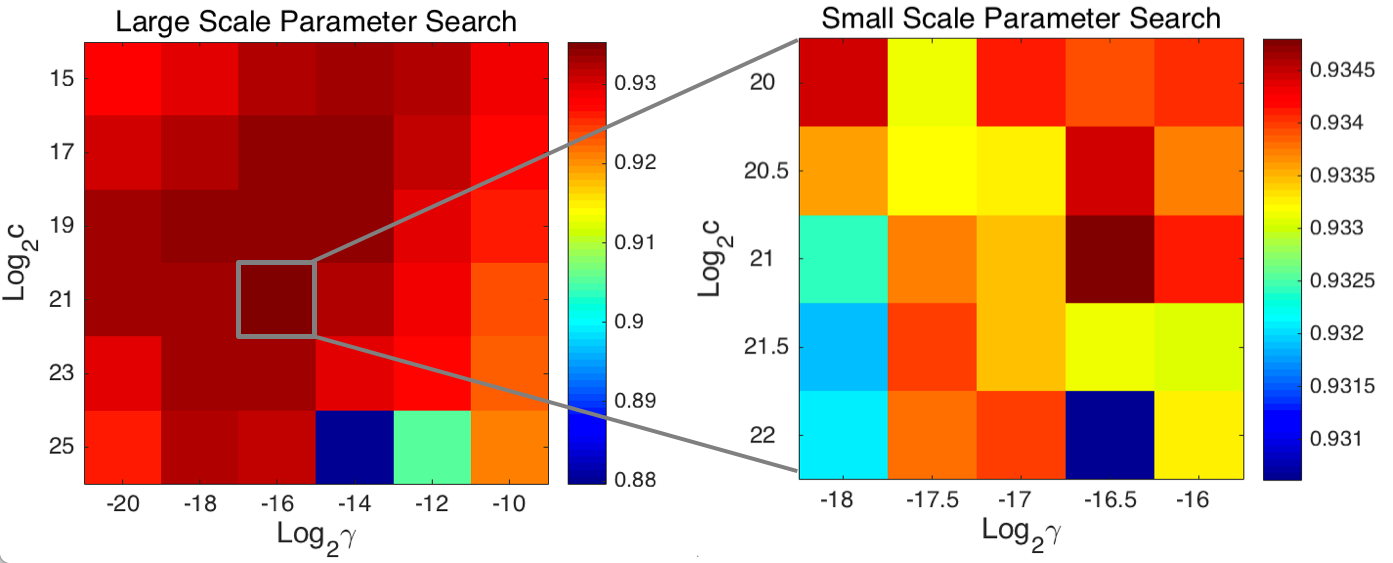
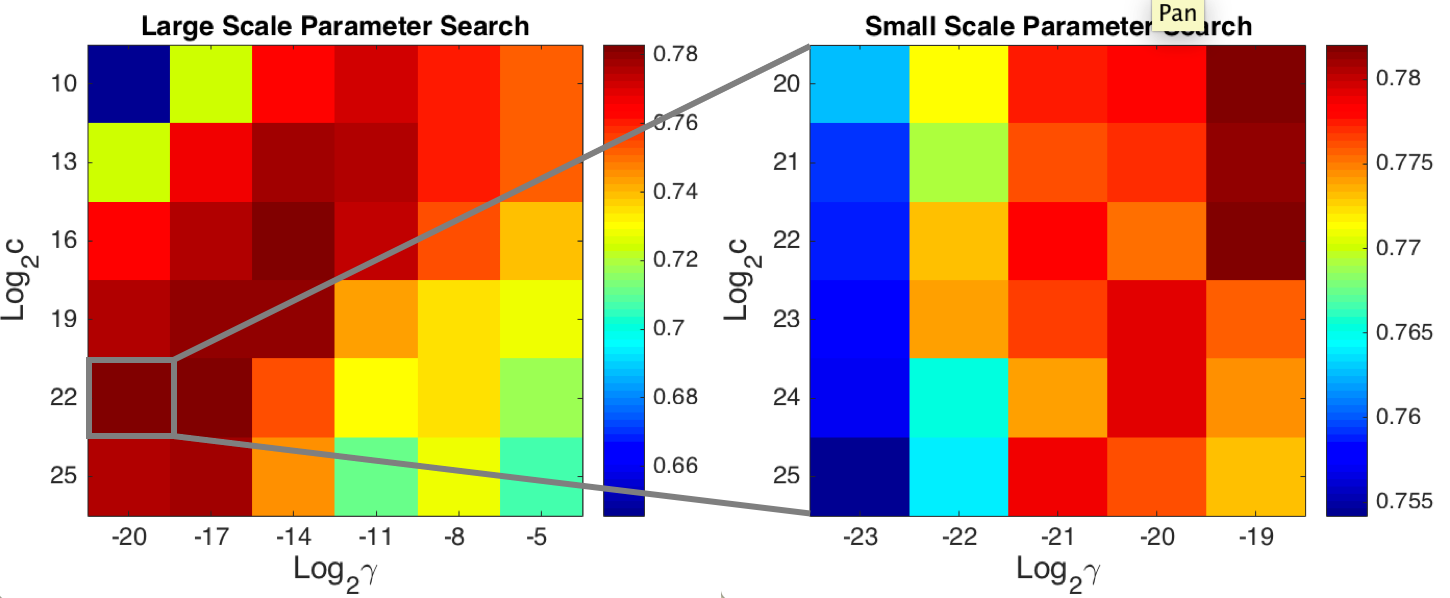
done with writeup v1

diff --git a/doc/btc-learning.tex b/doc/btc-learning.tex
@@ -1,6 +1,8 @@
-\documentclass[12pt]{article}
+\documentclass[11pt]{article}
 \usepackage{fullpage,graphicx,psfrag,amsmath,amsfonts,verbatim}
 \usepackage[small,bf]{caption}
+\usepackage[compact]{titlesec}
+\setlength{\belowcaptionskip}{-10pt}
 
 \input defs.tex
 
@@ -13,11 +15,11 @@
 \maketitle
 
 \section{Background \& Motivation}
-The Bitcoin crypto currency~\cite{Na08}, born in 2009, still maintains its position as the most widely used and highly valued digital currency in existence. Every day sees thousands of transactions added to the blockchain. The blockchain is a global, agreed-upon ledger of every transaction that has ever occured and is continually extended as a single linked list. Each transaction in the blockchain, say Alice paying Bob 10 BTC, has one or more transaction outputs (TXO) which serve as sums of spendable BTC. These unspent sums are called \emph{Unspent Transaction Outputs} (UTXO). They remain UTXOs until the owner (Bob in our example) redeems them to pay someone else (at which time they are referred to as spent TXOs).
+The Bitcoin crypto currency~\cite{Na:08,NBF:15} is the most widely used and highly valued digital currency in existence. Every day sees thousands of transactions added to the blockchain. The blockchain is a global, agreed-upon ledger of every transaction that has ever occured and is continually extended as a single linked list. Each transaction in the blockchain, say Alice paying Bob 10 BTC, has one or more transaction outputs (TXO) which serve as sums of spendable BTC. These unspent sums are called \emph{Unspent Transaction Outputs} (UTXO). They remain UTXOs until the owner (Bob in our example) redeems them to pay someone else (at which time they are referred to as spent TXOs).
 
 \begin{figure}
 \begin{center}
-\includegraphics[width=0.7\textwidth]{figures/utxo}
+\includegraphics[width=0.5\textwidth]{figures/utxo}
 \end{center}
 \caption{Illustrated Explanation of a UTXO. An arbitrary amount of time may pass before Bob spends his UTXO.}
 \label{utxo}
@@ -28,26 +30,29 @@ This project seeks to predict how long a TXO will remain unspent. More formally,
 
 
 \section{Dataset \& Features}
-One of the (many) blockchain explorers, Blockchain.info, has a public API exposing data about individual transactions as well as general Bitcoin market statistics. A python script queried Blockchain.info at a polite rate to gather 13146 training samples and then exported the data to a Matlab readable format. A Matlab script then curated the data into a matrix with the features listed in figure~\ref{features}.
+One of the (many) blockchain explorers, Blockchain.info, has a public API exposing data about individual transactions as well as general Bitcoin market statistics. A python script queried Blockchain.info at a polite rate to gather 13146 training samples and then exported the data to a Matlab readable format. A Matlab script then curated the data into a matrix with the features listed in figure~\ref{features}. The feature set consists of (1) information pertaining to the individual beginning transactions, and (2) information about the bitcoin market statistics on the day of creation.
+
+
 
 \begin{figure}
 \begin{center}
-\includegraphics[width=0.9\textwidth]{figures/hist.png}
-\end{center}
-\caption{The histogram of collected UTXO lifespans with two regions magnified.}
-\label{hist}
-\end{figure}
-
-The feature set consists of (1) information pertaining to the individual beginning transactions, and (2) information about the bitcoin market statistics on the day of creation.
-
-We dummy coded the weekday with the reference day being Sunday. This created 6 new binary features, where each feature dictates whether the transaction occurred on a particular day. Sunday, the reference day, is represented by these 6 features being 0. The UNIX time of beginning transaction corresponded to the number of hours that occurred since the Epoch time, Thursday, 1 January, 1970. The 11th feature, transaction volume on creation date, corresponds to to the total number of unique Bitcoin transactions that occurred on the day of creation. The final three features are the three 2nd order polynomial parameters that fit the last week's USD to BTC conversion rate.
-
-\begin{figure}
-\begin{center}
-\includegraphics[width=0.9\textwidth]{figures/features}
+\includegraphics[width=0.7\textwidth]{figures/features}
 \end{center}
 \caption{The features used as inputs to the classifier .}
 \label{features}
+\end{figure}
+
+
+
+We dummy coded the weekday with the reference day being Sunday. This created 6 new binary features, where each feature dictates whether the transaction occurred on a particular day. Sunday, the reference day, is represented by these 6 features being 0. The UNIX time of beginning transaction corresponded to the number of hours that occurred since the Epoch time, Thursday, 1 January, 1970. The 11th feature, transaction volume on creation date, corresponds to to the total number of unique Bitcoin transactions that occurred on the day of creation. The final three features are the three 2nd order polynomial parameters that fit the last week's USD to BTC conversion rate.
+
+
+\begin{figure}
+\begin{center}
+\includegraphics[width=0.6\textwidth]{figures/hist.png}
+\end{center}
+\caption{The histogram of collected UTXO lifespans with two regions magnified.}
+\label{hist}
 \end{figure}
 
 
@@ -58,50 +63,73 @@ Two methods of doing this are either (1) entirely empirically or (2) based on a 
 
 \begin{figure}
 \begin{center}
-\includegraphics[width=0.9\textwidth]{figures/fits}
+\includegraphics[width=0.8\textwidth]{figures/fits}
 \end{center}
 \caption{Illustrated Explanation of a UTXO. An arbitrary amount of time may pass before Bob spends his UTXO.}
 \label{fits}
 \end{figure}
 
-The ten subdomains for each method are shown in tables~\ref{opt1} and~\ref{opt2} respectively.
+Tables~\ref{opt1} and~\ref{opt2} describe the ten subdomains with raw data and the fitted distribution respectively. Table~\ref{opt2} reveals that the fitted distribution does not sufficiently capture the heavy weighting towards 0 since 44\% of the data is falling into what we hoped was a 10\% probability domain. Keeping in mind that the goal of this subdomain split is to find a meaningful set of lables, the choice between the two options is up to which domains seem more meaningful to a future user. We created two classifiers -- one for each label set.
 
-\begin{center}
+\begin{table}
 \begin{tabular}{r||c|c|c|c|c|c|c|c|c|c}
 Upper Bound of Subdomain & 2 m & 10 m & 31 m & 80 m & 3 h & 7 h & 1 d & 3 d & 2 wk & $\infty$\\
 \% of Dataset in Subdomain & 10 & 10 & 10 & 10 & 10 & 10 & 10 & 10 & 10 & 10
-% \caption{Table of subdomain boundaries and the distribution of datapoints within subdomains for empirically calculated subdomains.}
-\label{opt1}
 \end{tabular}
-\end{center}
+\caption{Table of subdomain boundaries and the distribution of datapoints within subdomains for empirically calculated subdomains.}
+\label{opt1}
+\end{table}
 
-\begin{center}
+\begin{table}
 \begin{tabular}{r||c|c|c|c|c|c|c|c|c|c}
 Upper Bound of Subdomain & 2 h & 4 h & 6.5 h & 9.5 h & 12.5 h & 17.5 h & 1 d & 1.5 d & 2 wk & $\infty$\\
 \% of Dataset in Subdomain & 44 & 8 & 7 & 5 & 2 & 2 & 3 & 3 & 16 & 10
-% \caption{Table of subdomain boundaries and the distribution of datapoints within subdomains for subdomains from a fitted distribution.}
-\label{opt2}
 \end{tabular}
-\end{center}
+\caption{Table of subdomain boundaries and the distribution of datapoints within subdomains for subdomains from a fitted distribution.}
+\label{opt2}
+\end{table}
+
+We used two different classification algorithms: SVM with a (Gaussian) radial basis kernel and softmax regression. The SVM optimization problem is as follows~\cite{Ng:15,HCL:10,BoV:04}:
+\begin{align*}
+\min_{\gamma,w,b} & \frac{1}{2}||w||^2 + C \sum_{i=1}^{m}\xi_i \\
+s.t. & y^{(i)}(w^Tx^{(i)} + b) \ge 1 - \xi_i, \quad i = 1,...,m \\
+& \xi_i \ge 0, \quad i = 1,...,m
+\end{align*}
+With the kernel function $K(x,z) = \exp \left(-\frac{\|x-z\|^2}{2\sigma^2}\right)$. This kernel function implicitly moves the feature set to a high dimensional space where the optimal margin between classes is larger and better fit by a linear equation than in the original, low dimentional space. Softmax regression is a GLM that can be run on a multinomial dataset. In class we saw that if we dummy coded our labels (with one being a reference label), then we could express the multinomial distribution as a member of the exponential family. The softmax function, $\phi_i = \frac{e^{\eta_i}}{\sum_{j=1}^{k}e^{\eta_j}}$, where $\eta$ is the natural parameter and $k$ is the number of labels, is found to describe the conditional distribution of $y$ given $x$ : 
+\begin{align*}
+     p(y=i | x; \theta) &= \frac{e^{\eta_i}}{\sum_{j=1}^{k}e^{\eta_j}} =
+     \frac{e^{\theta_i^Tx}}{\sum_{j=1}^{k}e^{\theta_j^Tx}}
+\end{align*}
+With this conditional probablity we are able to estimate the probablity of a certain feature set falling into each category, $i$.
 
 
 \section{Results}
-
 \begin{figure}
 \begin{center}
-\includegraphics[width=0.9\textwidth]{figures/paramSearch}
+\includegraphics[width=0.7\textwidth]{figures/paramSearch}
 \end{center}
 \caption{Classifier performance vs $\gamma$ and $C$. One region of the broader heatmap is magnified for higher granularity.}
 \label{paramSearch}
 \end{figure}
 
+SVM performed significantly better than Softmax regression so this section highlights only the results of SVM on the empirically decided equal-probability labels. The parameters $\gamma$ and $C$ changed the predication accuracy as they varied so figure~\ref{paramSearch} highlights the process of first training and 5-fold validating on a rough range of the two, then zooming in for finer changes to find an ideal pair of values. 
+
 \begin{figure}
 \begin{center}
-\includegraphics[width=0.9\textwidth]{figures/error}
+\includegraphics[width=0.9\textwidth]{figures/accuracy}
 \end{center}
-\caption{Test and training error vs size of data set using 5-fold cross validation.}
-\label{error}
+\caption{The accuracy of the SVM classifier using empirical labels with the sequential addition of features and the training/test error vs dataset size.}
+\label{accuracy}
 \end{figure}
+
+Figure~\ref{accuracy} shows the training and test error with respect to training set size with the peak $\gamma$ and $C$ pair as well as the effect of each feature on prediction accuracy as the features are added in one by one.
+
+Since space is scarce, suffice to say we have corresponding plots of figures~\ref{paramSearch} and~\ref{accuracy} for the fitted-distribution-defined equal probability labels. The baseline accuracy (\ie predicting label 1 every time) is 44\% while the peak accuracy with all features present is about 95\%.
+
+\section{Conclusion \& Future Work}
+It would be interesting to study the stationarity (or lack-there-of) of the UTXO Lifespan distribution (\ie are typical spending habits varying over Bitcoin history?) Such information might help with finding a better fitting underlying distribution that would be more robust than relying on equal-probability binning of raw data. Similarly, attempting to model the underlying distribution as a mixture of Laplace distributions might make more sense than fitting a set of adjacent clusters with individual distributions. We started down that path and would like to acknowledge Junjie Qin's help but we were unable to bring it to a useful state. It would also be worth see how many equal-probability bins we can meaningfully classify into (the more the better). Finally, two interesting follow up projects would be to use this prediction tool to create expected volatility plots of the Bitcoin market or pairing this predictor with de-anonymizing tools to form individual spending models for clustered entities on the blockchain.
+
+\newpage
 
 \bibliography{btc-learning}
 
